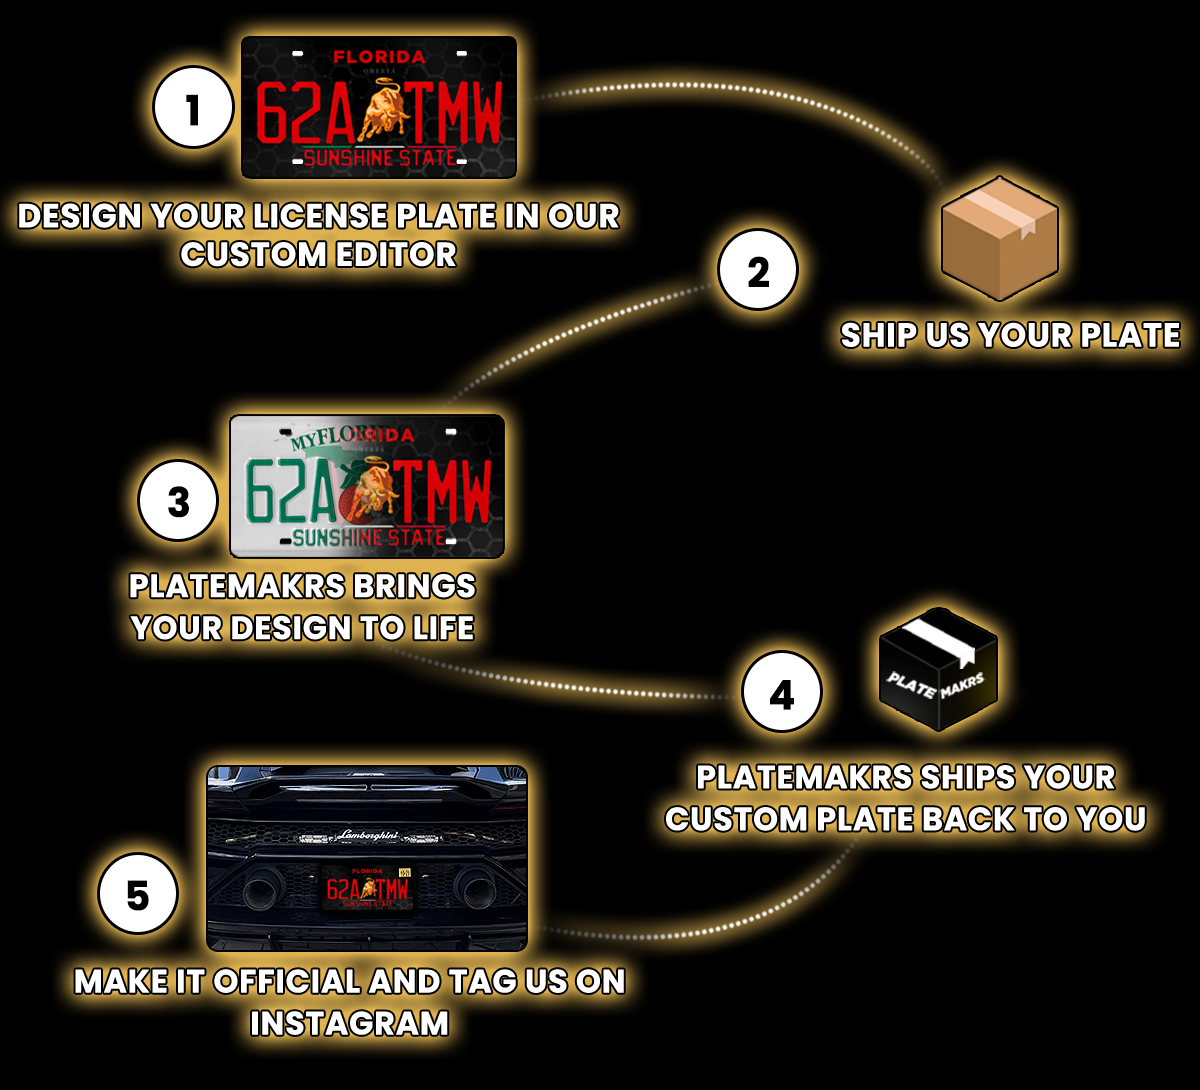
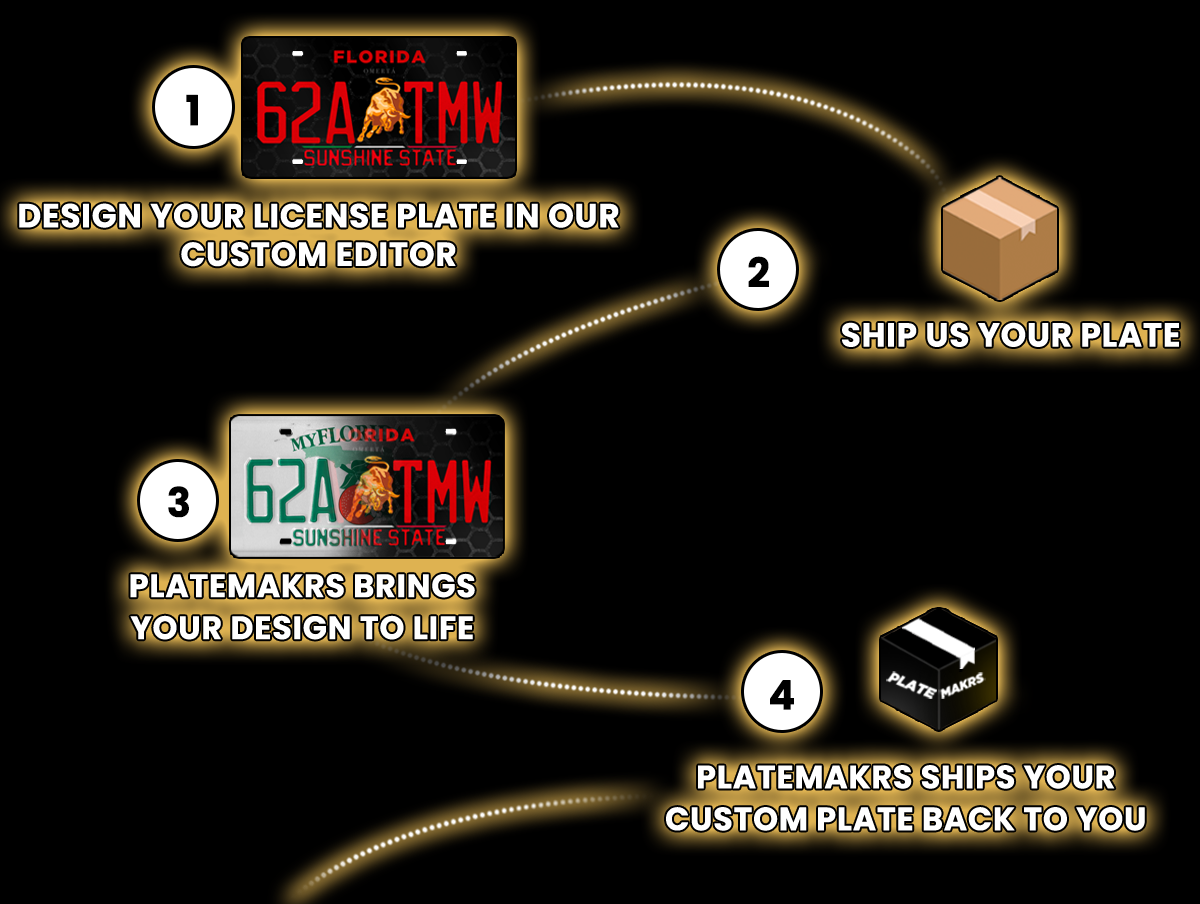
Changes

diff --git a/components/shared/ImageAndText/ImageAndText.tsx b/components/shared/ImageAndText/ImageAndText.tsx
@@ -44,28 +44,6 @@ export const ImageAndText = (props: ImageAndTextProps) => {
                     />
                 </Col>
             </Row>
-            <Row className="mt-5 it__container-title">
-                    <Col
-                    xs="6" sm="6" md="6" lg="6" xl="6"
-                    style={{
-                        padding: '0'
-                }}
-                    >
-                         <Link className=" hero__button main__cta" href="/editor">
-                            Build your plate
-                        </Link>
-                    </Col>
-                    <Col
-                    xs="6" sm="6" md="6" lg="6" xl="6"
-                    style={{
-                        padding: '0'
-                }}
-                    >
-                         <Link className=" hero__button main__cta" href="/products">
-                            Pre-Made Designs
-                        </Link>
-                    </Col>
-            </Row>
         </Container>
     )
 }

diff --git a/components/MainSlider/MainSlider.tsx b/components/MainSlider/MainSlider.tsx
@@ -16,6 +16,7 @@ type SliderProps = {
     title: string,
     swipeText: string,
     swipeImage: string,
+    image: string,
     plates: Array<SliderImage>
 }
 
@@ -34,15 +35,18 @@ const MainSlider = (
 
     return (
         <Container
-            className="slider__container"
+            className="slider__container slider__images"
         >
             <Row
                 className="slider__row-title"
             >
                 <Col {...colSettings}>
-                    <h1 className="slider__title">
-                        {props.title}
-                    </h1>
+                     <Image
+                        className="it__image"
+                        alt="How it works image"
+                        fill
+                        src={props.image} 
+                    />
                 </Col>
             </Row>
             <Row

diff --git a/styles/components/shared/MainSlider.module.scss b/styles/components/shared/MainSlider.module.scss
@@ -34,6 +34,12 @@
             margin-bottom: 1.5rem;
         }
     }
+    &__images{
+        padding: 0 !important;
+        .slider__row-title{
+            margin-top: -10px !important;
+        }
+    }
     &__img{
         display: block !important;
         object-fit: cover !important;
@@ -57,9 +63,9 @@
             padding: 0 1rem;
         }
         &-title{
-            margin-bottom: 3rem;
+            // margin-bottom: 3rem;
             @media screen and (max-width: 414px) {
-                margin-bottom: 1.5rem;
+                // margin-bottom: 1.5rem;
             }
     
         }

diff --git a/styles/components/shared/ImageAndText.module.scss b/styles/components/shared/ImageAndText.module.scss
@@ -3,7 +3,7 @@
 
         padding: 4rem 0;
         @media screen and (max-width: 414px) {
-            padding: 1rem 0;
+            padding: 0;
         }
         &-title{
             text-align: center;
@@ -25,8 +25,8 @@
         position: relative !important;
         width: 60% !important;
         @media screen and (max-width: 991px) {
-            height: 95% !important;
-            width: 85% !important;
+            height: 100% !important;
+            width: 100% !important;
         }
     }
 }

diff --git a/pages/index.tsx b/pages/index.tsx
@@ -38,6 +38,7 @@ export default function Home(props: any) {
 			<MainSlider
 				title={props.showcaseSlider.title} 
 				swipeImage=""
+				image={props.showcaseSlider.image}
 				swipeText={props.showcaseSlider.swipeText}
 				plates={props.showcaseSlider.images}
 
